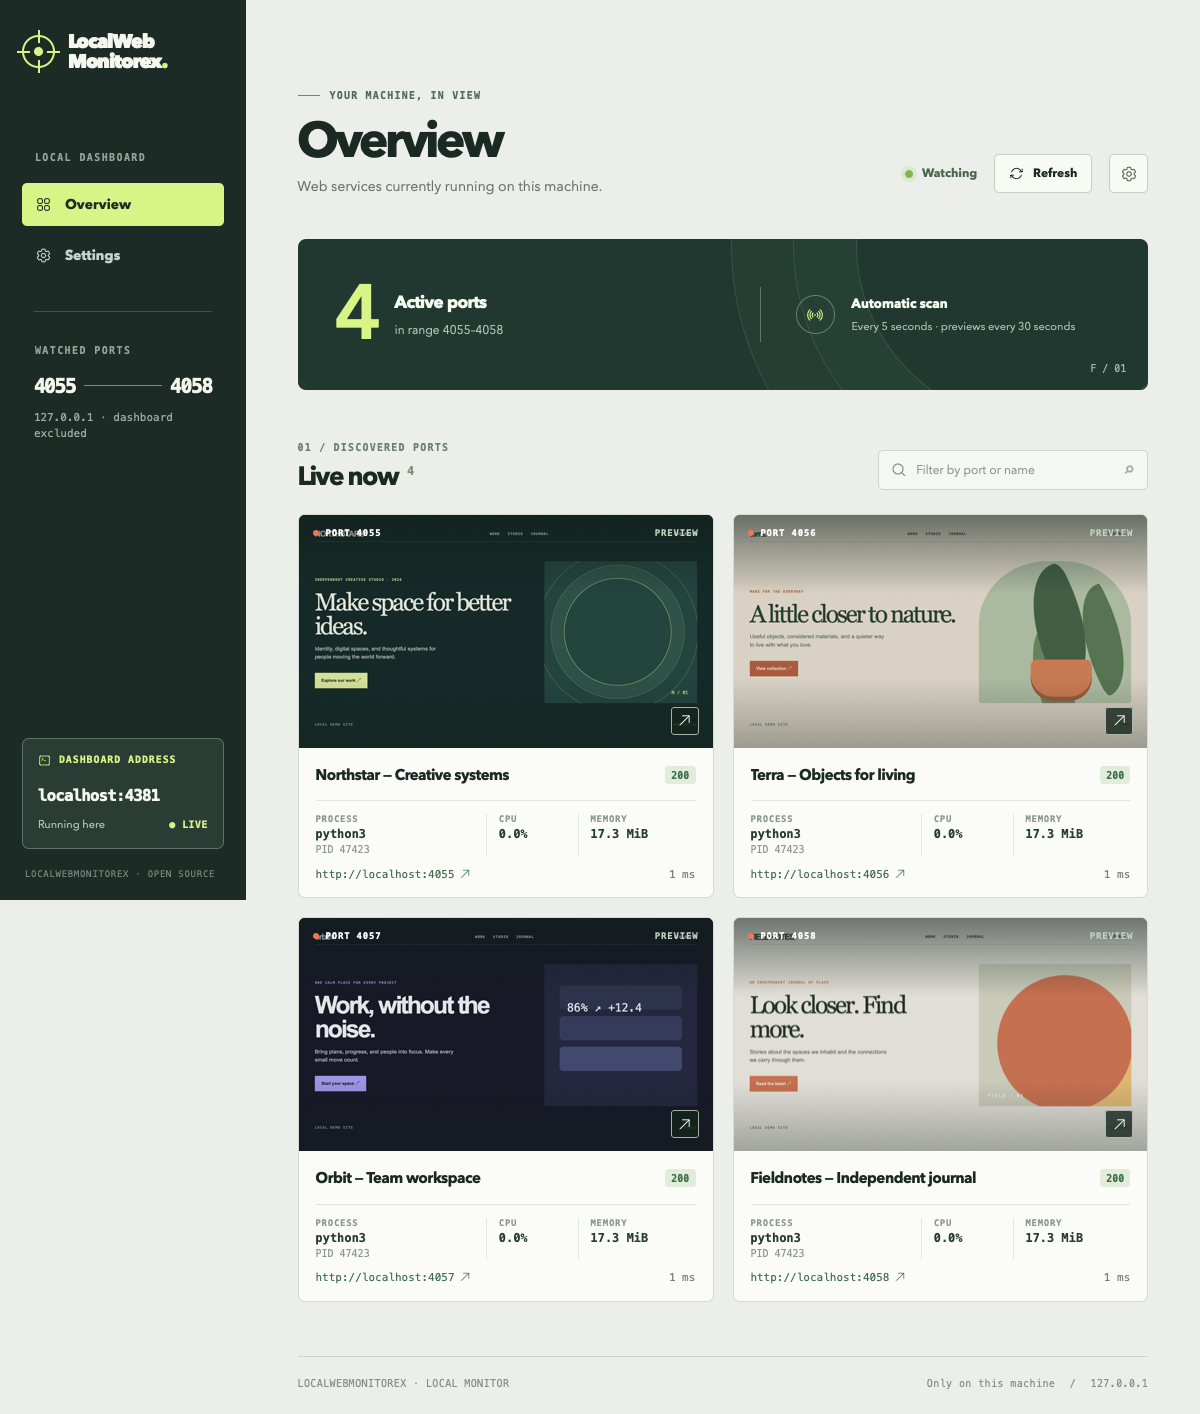
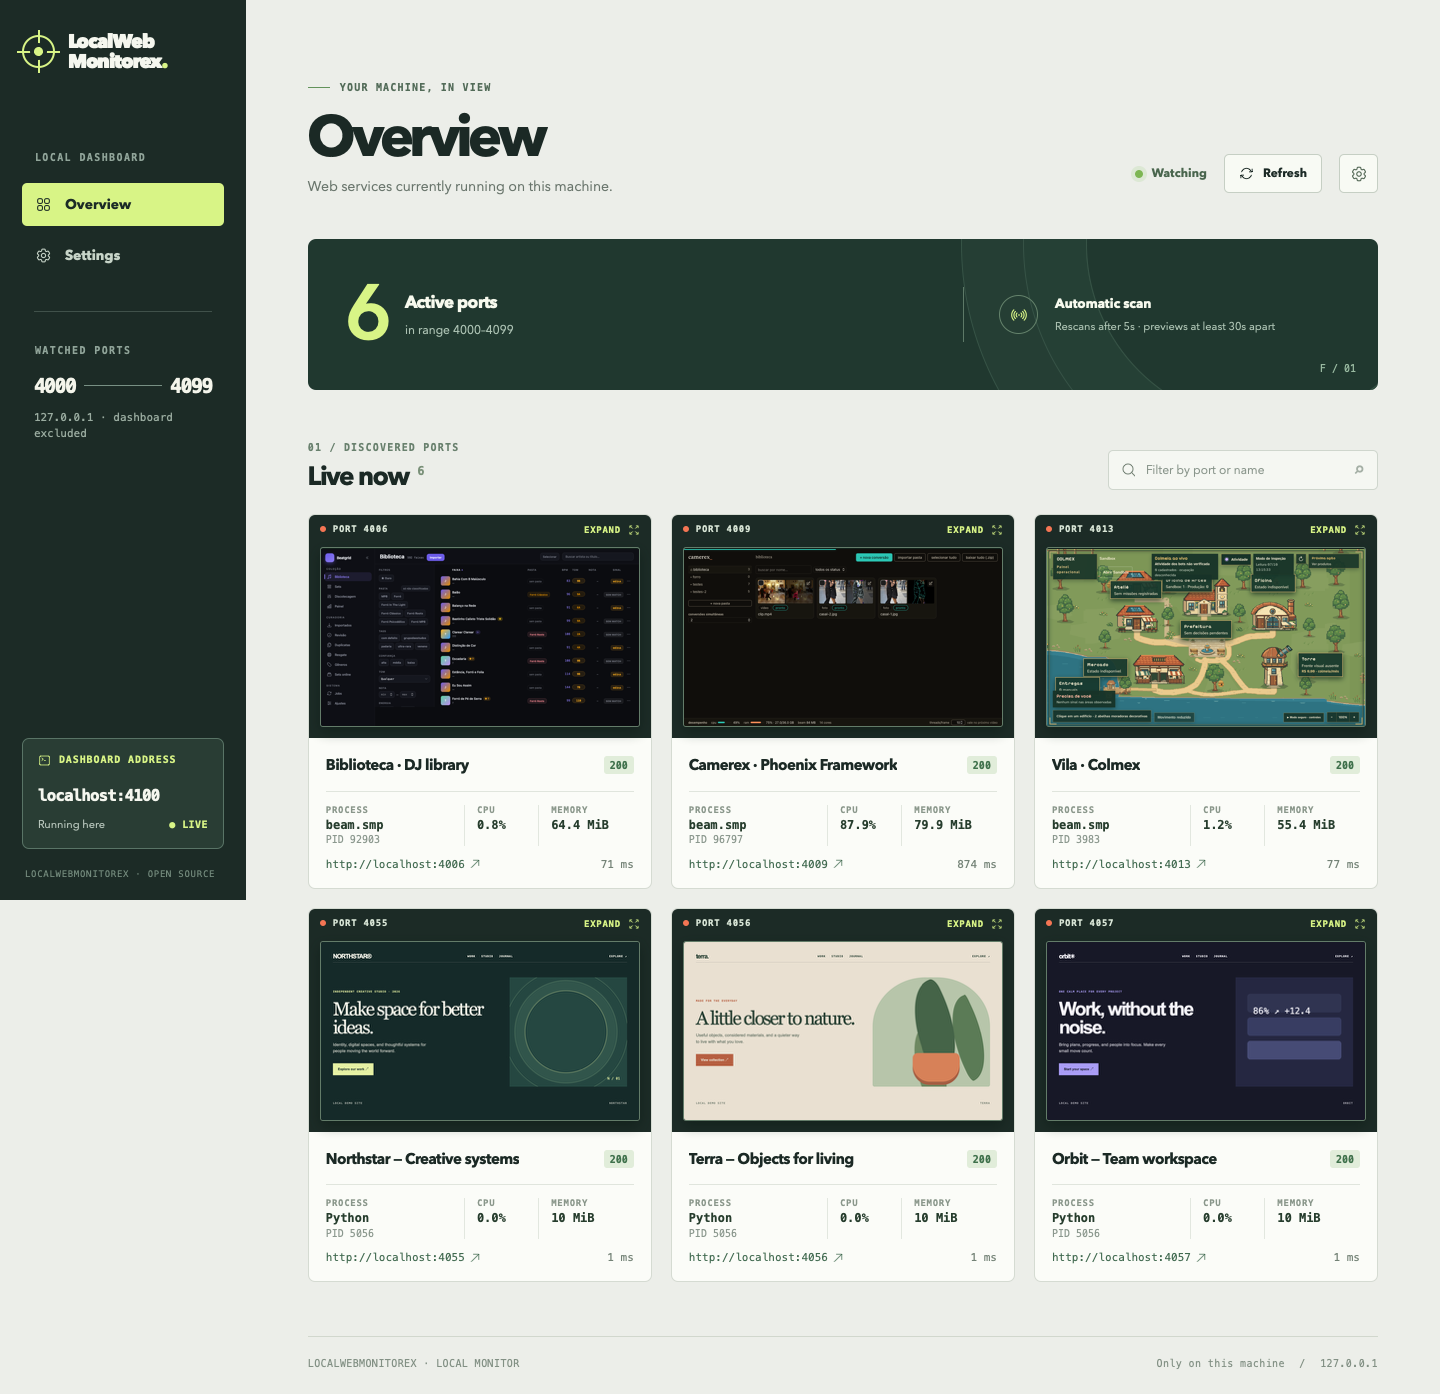
Improve preview layout and discover slower local servers (#8)

diff --git a/assets/css/app.css b/assets/css/app.css
@@ -98,19 +98,19 @@ a { color:inherit; text-decoration:none; }
 .search-form input { min-width:0; flex:1; outline:0; border:0; background:transparent; font-size:12px; color:var(--ink); }
 .search-form input::placeholder { color:#89958b; }
 .search-shortcut { font-size:19px; line-height:0; color:#a4afa5; }
-.service-grid { display:grid; grid-template-columns:repeat(3,minmax(0,1fr)); gap:19px; }
+.service-grid { display:grid; grid-template-columns:repeat(auto-fit,minmax(min(100%,300px),1fr)); gap:19px; }
 .service-card { min-width:0; border:1px solid #d5dbd2; border-radius:7px; background:#fbfcf8; overflow:hidden; transition:transform .2s,box-shadow .2s,border-color .2s; }
 .service-card:hover { transform:translateY(-3px); border-color:#b9c8b5; box-shadow:0 13px 25px #2543310e; }
-.camera { aspect-ratio:16/9; display:block; overflow:hidden; position:relative; background:#15211d; color:white; }
-.camera img { width:100%; height:100%; object-fit:cover; display:block; object-position:top; opacity:.92; transition:transform .4s,opacity .4s; }
-.camera:hover img { transform:scale(1.03); opacity:1; }
-.camera::after { content:""; position:absolute; inset:0; background:linear-gradient(#101f1a8c 0,transparent 34%,transparent 70%,#101f1a4d); pointer-events:none; }
-.camera-top { position:absolute; z-index:2; top:13px; left:14px; right:14px; display:flex; justify-content:space-between; font:600 9px "SFMono-Regular",Consolas,monospace; letter-spacing:.09em; }
-.camera-top span:first-child { display:flex; align-items:center; gap:7px; }
-.camera-top > span:last-child { color:#c1d1c4; }
+.camera { width:100%; display:block; padding:9px 11px 11px; border:0; background:#1c2b26; color:white; text-align:left; }
+.camera:disabled { opacity:1; cursor:default; }
+.camera-toolbar { min-height:23px; display:flex; align-items:start; justify-content:space-between; gap:8px; color:#d9e6d7; font:600 9px "SFMono-Regular",Consolas,monospace; letter-spacing:.08em; }
+.camera-toolbar > span { display:inline-flex; align-items:center; gap:7px; white-space:nowrap; }
+.camera-toolbar > span:last-child { color:var(--accent); }
+.camera-toolbar .icon { width:12px; height:12px; }
+.camera-screen { aspect-ratio:16/9; display:block; position:relative; overflow:hidden; background:#10201a; border:1px solid #637c69; border-radius:3px; box-shadow:0 5px 15px #0917117a; }
+.camera-screen img { width:100%; height:100%; object-fit:contain; display:block; }
+.camera:hover:not(:disabled) .camera-screen { border-color:var(--accent); }
 .camera-led { width:6px; height:6px; border-radius:50%; background:var(--signal); display:inline-block; }
-.camera-open { position:absolute; z-index:2; bottom:13px; right:14px; width:28px; height:28px; display:grid; place-items:center; border:1px solid #e1e8d8b8; border-radius:3px; background:#14241bcc; }
-.camera-open .icon { width:15px; height:15px; }
 .camera-placeholder { position:absolute; inset:0; display:flex; align-items:center; justify-content:center; flex-direction:column; background:radial-gradient(circle at 50% 50%,#2b4235,#14221c 75%); }
 .camera-placeholder::before { content:""; position:absolute; inset:10px; border:1px solid #ffffff16; }
 .camera-placeholder::after { content:""; position:absolute; top:50%; width:85%; height:1px; background:#ffffff12; }
@@ -148,11 +148,29 @@ a { color:inherit; text-decoration:none; }
 .filter-empty { padding:60px 20px; text-align:center; color:#66756b; font-size:13px; }
 .page-footer { border-top:1px solid #d1d7cd; margin-top:54px; padding:21px 0 25px; display:flex; justify-content:space-between; gap:15px; color:#829084; font:10px "SFMono-Regular",Consolas,monospace; letter-spacing:.04em; }
 .footer-separator { padding:0 8px; }
-@media (max-width:1250px) { .service-grid { grid-template-columns:repeat(2,minmax(0,1fr)); } .overview-side { margin-right:35px; } }
+@media (max-width:1250px) { .overview-side { margin-right:35px; } }
 @media (max-width:1000px) { .app-shell { grid-template-columns:208px minmax(0,1fr); } .sidebar { padding-left:17px; padding-right:17px; } .workspace { padding-left:34px; padding-right:34px; } .overview-side { display:none; } }
 @media (max-width:760px) { .app-shell { display:block; } .sidebar { display:none; } .workspace { padding:0 20px; } .mobile-brand { height:72px; display:flex; align-items:center; gap:11px; border-bottom:1px solid #d2d8cf; } .mobile-brand .brand-mark { width:26px; height:26px; border-color:#375d42; } .mobile-brand .brand-mark::before,.mobile-brand .brand-mark::after,.mobile-brand .brand-mark span { background:#375d42; } .mobile-brand .brand-mark::before { width:35px; } .mobile-brand .brand-mark::after { height:35px; } .mobile-brand .brand-mark span { width:7px; height:7px; box-shadow:0 0 0 3px var(--paper); } .mobile-brand strong { font-size:23px; letter-spacing:-.08em; } .mobile-brand .brand-period { color:#6b9c54; } .mobile-brand > span:last-child { margin-left:auto; font:10px "SFMono-Regular",Consolas,monospace; color:#708271; letter-spacing:.1em; } .page-head { min-height:0; padding:39px 0 27px; align-items:start; flex-direction:column; gap:22px; } .page-head h1 { font-size:43px; } .head-actions { width:100%; justify-content:space-between; } .overview { min-height:124px; padding:23px 28px; } .overview-number { font-size:67px; } .services-section { padding-top:43px; } .section-head { align-items:start; flex-direction:column; gap:19px; } .search-form { width:100%; } .service-grid { grid-template-columns:repeat(2,minmax(0,1fr)); gap:14px; } }
-@media (max-width:590px) { .service-grid { grid-template-columns:1fr; } .camera { aspect-ratio:16/8.8; } .page-footer { flex-direction:column; gap:6px; } .overview::after { right:-230px; } .empty-state > p:not(.empty-kicker) { max-width:250px; line-height:1.5; } }
+@media (max-width:590px) { .service-grid { grid-template-columns:1fr; } .page-footer { flex-direction:column; gap:6px; } .overview::after { right:-230px; } .empty-state > p:not(.empty-kicker) { max-width:250px; line-height:1.5; } }
 @media (prefers-reduced-motion:reduce) { *,*::before,*::after { animation-duration:.01ms !important; transition-duration:.01ms !important; } }
+.preview-dialog { position:fixed; inset:0; margin:auto; width:min(1080px,calc(100vw - 36px)); max-height:calc(100dvh - 36px); padding:0; border:0; border-radius:12px; background:#f7f9f4; color:var(--ink); box-shadow:0 28px 80px #07130c85; overflow:auto; }
+.preview-dialog::backdrop { background:#0b1912c4; }
+.preview-head { display:flex; align-items:center; justify-content:space-between; gap:20px; padding:18px 24px; border-bottom:1px solid #d7dfd2; }
+.preview-heading { min-width:0; }
+.preview-kicker { display:flex; align-items:center; gap:7px; color:#5d7d62; font:600 10px "SFMono-Regular",Consolas,monospace; letter-spacing:.08em; }
+.preview-heading h2 { margin:7px 0 0; font-size:clamp(20px,2.2vw,27px); line-height:1.1; letter-spacing:-.04em; overflow-wrap:anywhere; }
+.preview-actions { display:flex; align-items:center; gap:11px; flex:none; }
+.preview-actions a { min-height:38px; display:inline-flex; align-items:center; gap:7px; padding:0 12px; background:#20382f; color:#f7faee; border-radius:5px; font-size:12px; font-weight:700; }
+.preview-actions a:hover { background:#335943; }
+.preview-actions a .icon { width:14px; height:14px; }
+.preview-actions button { width:38px; height:38px; display:grid; place-items:center; border:1px solid #c9d5c9; border-radius:5px; background:#fff; color:#39513e; }
+.preview-actions button:hover { background:#eef4e9; }
+.preview-stage { display:grid; place-items:center; padding:clamp(12px,2.5vw,26px); background:#1c2b26; }
+.preview-frame { width:100%; max-width:960px; aspect-ratio:16/9; overflow:hidden; border:1px solid #748d79; border-radius:5px; background:#10201a; box-shadow:0 12px 30px #08130d8c; }
+.preview-frame img { width:100%; height:100%; display:block; object-fit:contain; }
+.preview-foot { display:flex; justify-content:space-between; flex-wrap:wrap; gap:7px 18px; padding:13px 24px 15px; color:#6c7d6e; font:11px "SFMono-Regular",Consolas,monospace; }
+.preview-foot span:first-child { color:#3c684a; overflow-wrap:anywhere; }
+@media (max-width:760px) { .preview-head { padding:15px; align-items:start; } .preview-actions { gap:6px; } .preview-actions a,.preview-actions button { width:44px; height:44px; } .preview-actions a { font-size:0; padding:0; justify-content:center; } .preview-actions a .icon { width:17px; height:17px; } .preview-foot { padding:12px 15px; } }
 .settings-scrim { position:fixed; inset:0; z-index:20; background:#0b1912a8; }
 .settings-panel { position:fixed; top:0; right:0; bottom:0; z-index:21; width:min(430px,100vw); padding:29px 31px; background:#f7f9f3; box-shadow:-18px 0 60px #0b19122b; overflow:auto; }
 .settings-head { display:flex; align-items:center; justify-content:space-between; color:#708674; font:650 10px "SFMono-Regular",Consolas,monospace; letter-spacing:.14em; }

diff --git a/assets/js/app.js b/assets/js/app.js
@@ -25,11 +25,45 @@ import {LiveSocket} from "phoenix_live_view"
 import {hooks as colocatedHooks} from "phoenix-colocated/local_web_monitorex"
 import topbar from "../vendor/topbar"
 
+const PreviewDialog = {
+  mounted() {
+    this.returnFocus = document.activeElement
+    this.onCancel = event => {
+      event.preventDefault()
+      this.pushEvent("close_preview", {})
+    }
+    this.onBackdropClick = event => {
+      const bounds = this.el.getBoundingClientRect()
+      const outside = event.clientX < bounds.left || event.clientX > bounds.right ||
+        event.clientY < bounds.top || event.clientY > bounds.bottom
+      if (event.target === this.el && outside) this.pushEvent("close_preview", {})
+    }
+    this.el.addEventListener("cancel", this.onCancel)
+    this.el.addEventListener("click", this.onBackdropClick)
+    this.el.showModal()
+    this.el.querySelector("[data-preview-close]").focus()
+  },
+  updated() {
+    const image = this.el.querySelector(".preview-frame img")
+    if (image && image.getAttribute("src") !== this.el.dataset.previewSrc) {
+      image.src = this.el.dataset.previewSrc
+    }
+  },
+  destroyed() {
+    requestAnimationFrame(() => {
+      const trigger = document.querySelector(`button[phx-click="open_preview"][phx-value-port="${this.el.dataset.previewPort}"]`)
+      const fallback = document.querySelector("#service-filter input")
+      const focusTarget = trigger || (this.returnFocus?.isConnected ? this.returnFocus : null) || fallback
+      focusTarget?.focus()
+    })
+  },
+}
+
 const csrfToken = document.querySelector("meta[name='csrf-token']").getAttribute("content")
 const liveSocket = new LiveSocket("/live", Socket, {
   longPollFallbackMs: 2500,
   params: {_csrf_token: csrfToken},
-  hooks: {...colocatedHooks},
+  hooks: {...colocatedHooks, PreviewDialog},
 })
 
 // Show progress bar on live navigation and form submits

diff --git a/README.md b/README.md
@@ -6,14 +6,14 @@ LocalWebMonitorex is a small Phoenix LiveView dashboard that finds the web apps 
 
 [![CI](https://github.com/sallaumen/LocalWebMonitorex/actions/workflows/ci.yml/badge.svg)](https://github.com/sallaumen/LocalWebMonitorex/actions/workflows/ci.yml) [![Linux package](https://github.com/sallaumen/LocalWebMonitorex/actions/workflows/release.yml/badge.svg)](https://github.com/sallaumen/LocalWebMonitorex/actions/workflows/release.yml) [![License: MIT](https://img.shields.io/badge/license-MIT-305444)](LICENSE)
 
-![LocalWebMonitorex dashboard showing four sample web apps on ports 4055 through 4058](docs/screenshots/dashboard.png)
+![LocalWebMonitorex dashboard monitoring six local web apps on ports 4006, 4009, 4013, and 4055 through 4057](docs/screenshots/dashboard.png)
 
-<sub>These captures show four temporary sample sites on ports 4055–4058. The screenshot session used dashboard port 4381; the product default is 4100. No contributor apps or private pages appear.</sub>
+<sub>Captured at the default <code>localhost:4100</code> dashboard with the default 4000–4099 watched range. Local projects run on 4006, 4009, and 4013; temporary demo sites run on 4055–4057.</sub>
 
 ## Why use it?
 
-- **Find servers as they come and go.** Ports 4000–4099 are checked every 5 seconds by default. Only responding web apps appear; the dashboard excludes its own port.
-- **Recognize a page before opening it.** WebKit captures previews sequentially while a dashboard tab is connected, with at least 30 seconds between captures of the same port.
+- **Find servers as they come and go.** Ports 4000–4099 are rescanned automatically. A new scan starts five seconds after the previous one finishes. Only responding web apps appear; the dashboard excludes its own port.
+- **Recognize a page before opening it.** WebKit captures previews sequentially while a dashboard tab is connected, with at least 30 seconds between captures of the same port. Click a thumbnail to inspect the full snapshot; use the separate link to open the app.
 - **See the process behind a port.** The OS adapter adds the listener's name, PID, CPU percentage, and resident memory when available. Missing permissions or tools are shown as unavailable data.
 - **Keep everything on your machine.** The server binds to `127.0.0.1`. There is no account, database, or remote monitoring service.
 - **Keep it ready after login.** Use the macOS LaunchAgent or the Linux package's user service.
@@ -26,8 +26,15 @@ LocalWebMonitorex is a small Phoenix LiveView dashboard that finds the web apps 
 
 <details>
 <summary>See the mobile dashboard</summary>
-<p><img src="docs/screenshots/mobile.png" alt="LocalWebMonitorex mobile dashboard with four local sites" width="375"></p>
+<p><img src="docs/screenshots/mobile.png" alt="LocalWebMonitorex mobile dashboard with six local sites" width="375"></p>
 </details>
+
+<details>
+<summary>See an expanded preview</summary>
+<p><img src="docs/screenshots/expanded.png" alt="Expanded preview of a local project, with an explicit Open app action"></p>
+</details>
+
+On startup, **Overview** is the focus: no port is selected. The dashboard listens on **4100**, scans **4000–4099** by default, and shows a card only when a web server responds. Open a thumbnail to inspect its snapshot, or use its URL to enter the app.
 
 ## Install
 
@@ -137,7 +144,7 @@ flowchart LR
   Previews --> WebKit[Playwright WebKit]
 ```
 
-The HTTP probe checks loopback only, limits timeouts, and does not follow a discovered service's redirect to another host. The scanner checks at most 16 ports concurrently. The macOS/Linux adapter runs one `lsof` and one `ps` command per scan when web services were found; the Windows adapter makes one PowerShell query. The metrics describe the **listener process**, not a port's isolated resource use; a process listening on multiple ports may appear on multiple cards. PowerShell's process CPU property is cumulative time, so the Windows adapter deliberately leaves live CPU percentage unavailable.
+The HTTP probe checks loopback only, allows up to 1.5 seconds for a local response, and does not follow a discovered service's redirect to another host. The scanner checks at most 16 ports concurrently. The macOS/Linux adapter runs one `lsof` and one `ps` command per scan when web services were found; the Windows adapter makes one PowerShell query. The metrics describe the **listener process**, not a port's isolated resource use; a process listening on multiple ports may appear on multiple cards. PowerShell's process CPU property is cumulative time, so the Windows adapter deliberately leaves live CPU percentage unavailable.
 
 Previews are requested only by connected dashboard sessions. Browser navigation and assets are limited to local HTTP(S) addresses. Captures are stored in an OS temporary directory and never committed or uploaded by the app. Login-protected pages and apps that depend on remote assets may show an incomplete initial view.
 
